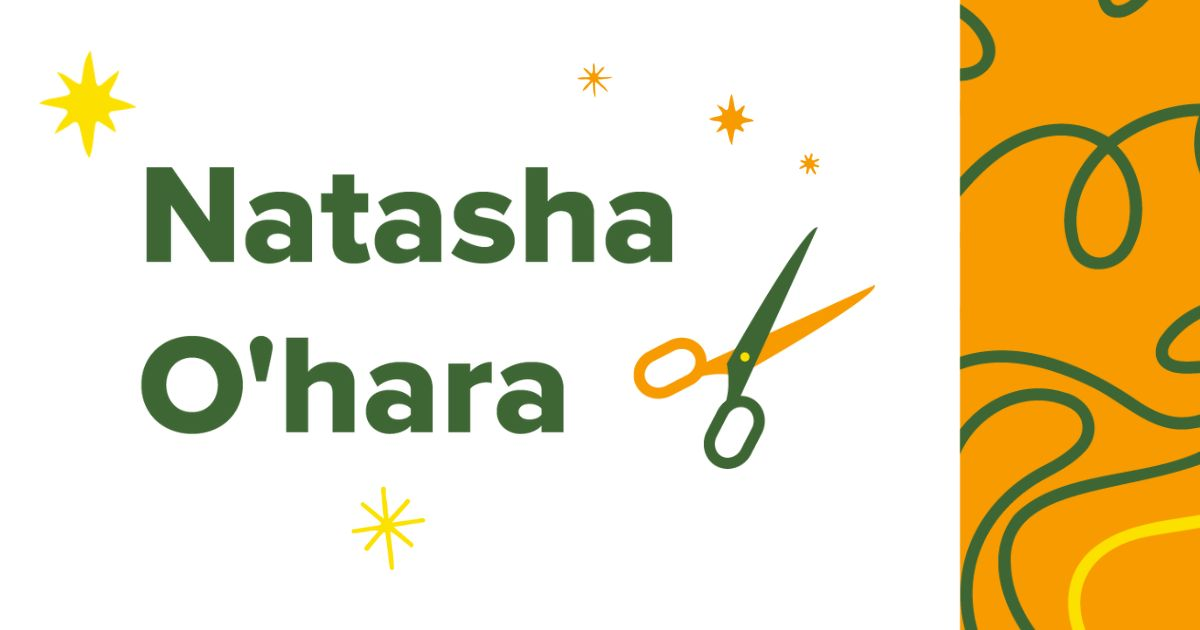
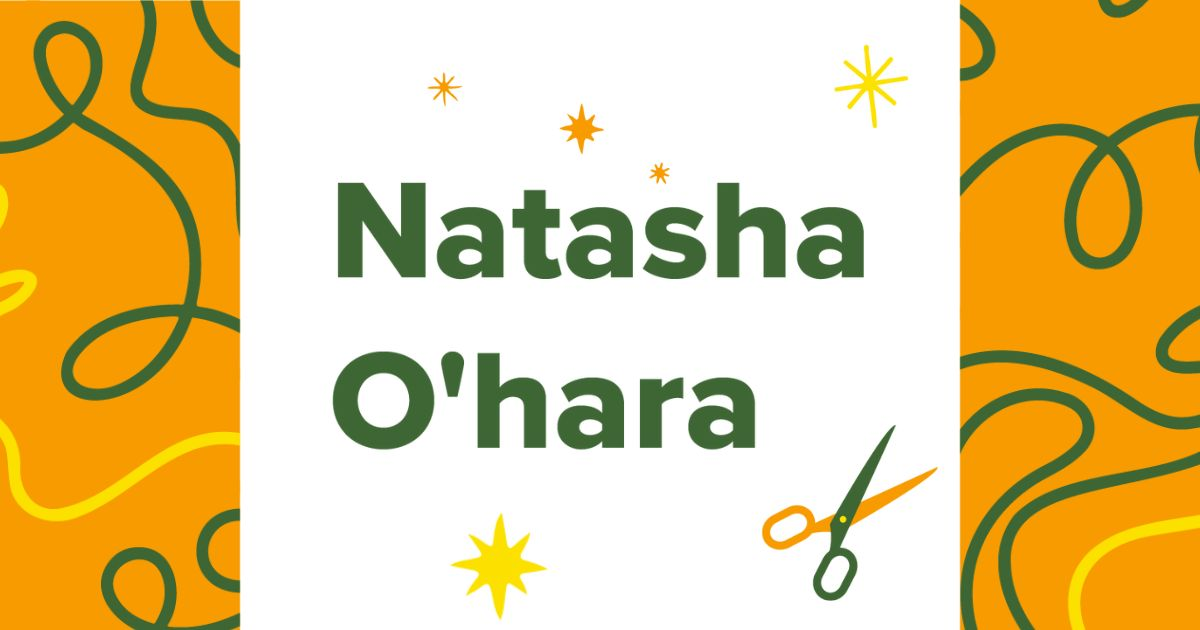
mudança do og image. Ajuste do og image para pagina politica.

diff --git a/politica.html b/politica.html
@@ -17,10 +17,10 @@
 
     <!-- Open Graph / Social Preview -->
     <meta property="og:type" content="website">
-    <meta property="og:title" content="Natasha O'hara">
-    <meta property="og:description" content="Política de Agendamentos.">
+    <meta property="og:title" content="Política de Atendimento | Natasha O'hara">
+    <meta property="og:description" content="Saiba mais sobre nossa política antes do seu atendimento.">
     <meta property="og:image" content="https://natashaohara.com.br/assets/og-image-politica.jpg">
-    <meta property="og:url" content="https://natashaohara.com.br/">
+    <meta property="og:url" content="https://natashaohara.com.br/politica.html">
     <meta property="og:locale" content="pt_BR">
     <meta name="twitter:card" content="summary_large_image">
 </head>
